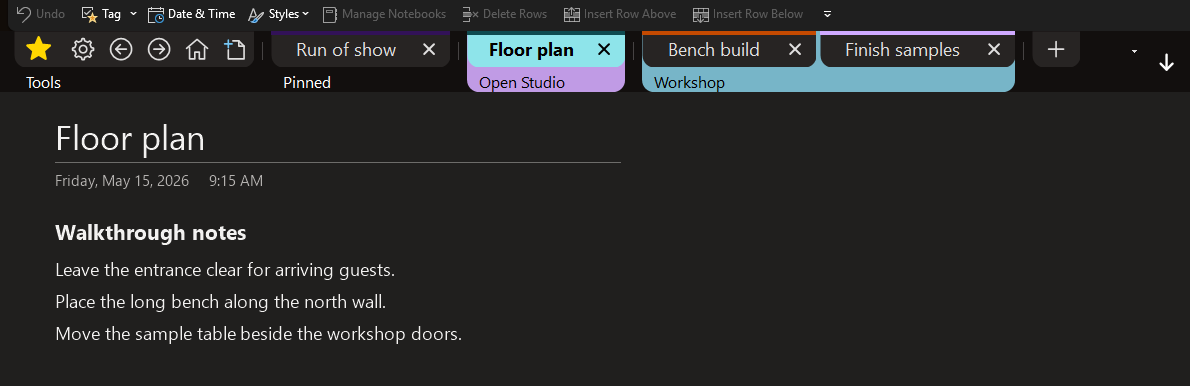
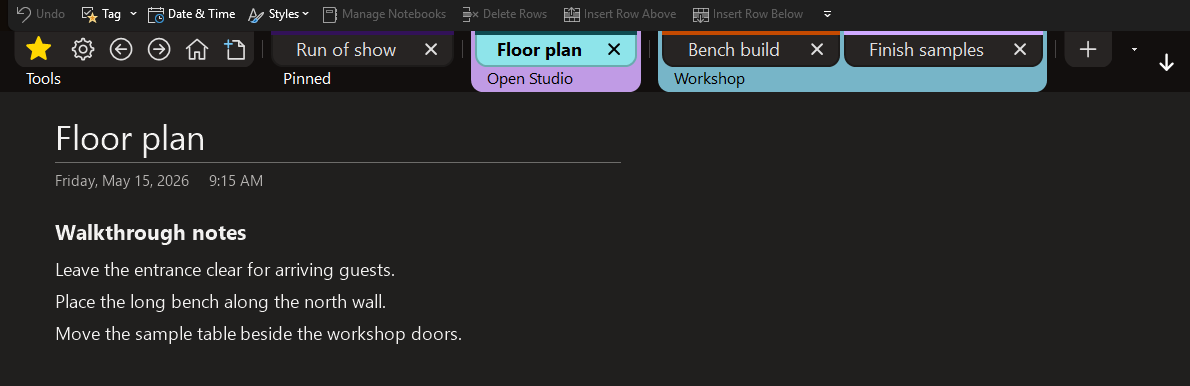
Center MoreTabs group labels and separate page tabs from their notebook bands

Changed region(s): [[0.342, 0.0622, 0.9328, 0.2487], [0.2176, 0.1865, 0.2798, 0.2487], [0.0, 0.1865, 0.0622, 0.2487]]

diff --git a/addins/page-tabs/prototype/AppearanceTests.cs b/addins/page-tabs/prototype/AppearanceTests.cs
@@ -131,7 +131,8 @@ internal static class AppearanceTests
                     for (int y = cy - HostChrome.Px(5, tab.Dpi); y <= cy + HostChrome.Px(5, tab.Dpi); y++)
                         for (int dx = HostChrome.Px(6, tab.Dpi); dx <= HostChrome.Px(12, tab.Dpi); dx++)
                             Check(image.GetPixel(cx - dx, y).ToArgb() == fill && image.GetPixel(cx + dx, y).ToArgb() == fill,
-                                "The long title or tab edge crowds the close icon at " + tab.Dpi + " DPI.");
+                                String.Format("Close spacing at {0} DPI, bottom={1}, tab {2}, dx {3}, y {4}: {5:X8}/{6:X8}, expected {7:X8}.",
+                                    tab.Dpi, strip.AtBottom, tab.Bounds, dx, y, image.GetPixel(cx-dx,y).ToArgb(), image.GetPixel(cx+dx,y).ToArgb(), fill));
                 }
             }
         }
@@ -166,9 +167,11 @@ internal static class AppearanceTests
         {
             strip.DrawToBitmap(image, strip.ClientRectangle);
             var firstTab = grouped[0];
-            Check(firstTab.Group == grouped[1].Group && grouped[1].Bounds.Left > firstTab.Bounds.Right &&
+            int gap = grouped[1].Bounds.Left - firstTab.Bounds.Right;
+            Check(firstTab.Group == grouped[1].Group && gap > 0 &&
+                firstTab.Bounds.Left - firstTab.Group.Left == gap && firstTab.Group.Right - grouped[1].Bounds.Right == gap &&
                 image.GetPixel(firstTab.Bounds.Right, strip.Height / 2).ToArgb() == firstTab.Group.Notebook.Color.ToArgb(),
-                "The notebook backing did not bridge the gap between two tabs in the same group.");
+                "The colored band must leave exactly one inter-tab gap at each end of a two-tab group.");
         }
         TogglePin(strip, grouped[2], true);
         int fullDocument = layout.DocumentBounds.Height;
@@ -429,10 +432,14 @@ internal static class AppearanceTests
                 {
                     var label = group.Key;
                     var box = label.Bounds;
-                    Check(label.Visible && !label.CanSelect && label.AccessibleName == label.Text && label.Font.Style == FontStyle.Regular &&
-                        label.Font.Size < first.Font.Size && box.Left == group.First().Bounds.Left && label.Padding.Left == TabRenderer.CornerRadius(chrome.Dpi) && box.Right == group.Last().Bounds.Right &&
-                        box.Height == label.Font.Height, "A notebook caption did not fit its tabs on one compact line.");
                     bool colored = !chrome.HighContrast && label.Notebook != null && !label.Notebook.Color.IsEmpty;
+                    int pad = colored ? 2 * edge : 0;
+                    Check(label.Visible && !label.CanSelect && label.AccessibleName == label.Text && label.Font.Style == FontStyle.Regular &&
+                        label.Font.Size < first.Font.Size && box.Left + pad == group.First().Bounds.Left &&
+                        label.Padding.Left == pad + TabRenderer.CornerRadius(chrome.Dpi) && box.Right - pad == group.Last().Bounds.Right &&
+                        box.Height == label.Font.Height + HostChrome.Px(3, chrome.Dpi) &&
+                        (bottom ? group.First().Bounds.Top == 0 : group.First().Bounds.Bottom == strip.Height),
+                        "The caption must center in the full space between the tab and band edges, with equal end padding.");
                     Color fill = colored ? label.Notebook.Color : palette.Surface;
                     Color ink = colored ? palette.NotebookInk(fill) : palette.Ink;
                     int outer = bottom ? box.Top : box.Bottom - 1, seam = bottom ? box.Bottom - 1 : box.Top;
@@ -446,11 +453,26 @@ internal static class AppearanceTests
                             label.Text, chrome.Dpi, bottom, captions.GetPixel(box.Left, outer).ToArgb(), captions.GetPixel(box.Right - 1, outer).ToArgb(),
                             captions.GetPixel(box.Right - 1, seam).ToArgb(), captions.GetPixel(inside.X, inside.Y).ToArgb(),
                             bitmap.GetPixel(box.Right - 1, bottom ? 0 : strip.Height - 1).ToArgb(), palette.Surface.ToArgb(), fill.ToArgb()));
-                    bool found = false;
-                    for (int x = box.Left + label.Padding.Left; x < box.Right - label.Padding.Right && !found; x++)
-                        for (int y = box.Top; y < box.Bottom && !found; y++)
-                            found = captions.GetPixel(x, y).ToArgb() == ink.ToArgb();
-                    Check(found, "The notebook caption did not render in its contrasting text color.");
+                    if (colored)
+                        for (int i = 0; i < pad; i++)
+                            Check(bitmap.GetPixel(box.Left + i, strip.Height / 2).ToArgb() == fill.ToArgb() &&
+                                bitmap.GetPixel(box.Right - 1 - i, strip.Height / 2).ToArgb() == fill.ToArgb(),
+                                "The notebook fill must be visible at both ends of its tab row.");
+                    int firstInk = box.Bottom, lastInk = -1;
+                    bool solidInk = false;
+                    int inkDistance = Math.Abs(ink.R-fill.R) + Math.Abs(ink.G-fill.G) + Math.Abs(ink.B-fill.B);
+                    for (int x = box.Left + label.Padding.Left; x < box.Right - label.Padding.Right; x++)
+                        for (int y = box.Top; y < box.Bottom; y++)
+                        {
+                            Color pixel = captions.GetPixel(x, y);
+                            if (pixel.ToArgb() == ink.ToArgb()) solidInk = true;
+                            int distance = Math.Abs(pixel.R-fill.R) + Math.Abs(pixel.G-fill.G) + Math.Abs(pixel.B-fill.B);
+                            if (distance < inkDistance / 3) continue;
+                            firstInk = Math.Min(firstInk, y);
+                            lastInk = Math.Max(lastInk, y);
+                        }
+                    Check(solidInk && Math.Abs((firstInk - box.Top) - (box.Bottom - 1 - lastInk)) <= HostChrome.Px(3, chrome.Dpi),
+                        "Caption ink falls off center for " + label.Text + " at " + chrome.Dpi + " DPI: " + firstInk + ".." + lastInk + " in " + box.Height + " pixels.");
                 }
             }
             Color starBackground = star.Pressed ? palette.Active : star.Selected ? palette.Hover : palette.Tab;
@@ -486,7 +508,10 @@ internal static class AppearanceTests
                 int y = divider.Bounds.Top + divider.Height / 2;
                 if (left.Placement == ToolStripItemPlacement.Main && right.Placement == ToolStripItemPlacement.Main)
                 {
-                    int leftGap = x - left.Bounds.Right, rightGap = right.Bounds.Left - x - 1;
+                    var leftTab = left as PageTabButton;
+                    var rightTab = right as PageTabButton;
+                    int leftGap = x - (leftTab == null ? left.Bounds.Right : leftTab.Group.Right);
+                    int rightGap = (rightTab == null ? right.Bounds.Left : rightTab.Group.Left) - x - 1;
                     Check(leftGap > 0 && leftGap == rightGap, "Divider gaps in pixels: left " + leftGap + ", right " + rightGap);
                     for (int gap = 1; gap <= leftGap; gap++)
                         Check(bitmap.GetPixel(x - gap, y).ToArgb() == palette.Surface.ToArgb() &&
@@ -504,6 +529,15 @@ internal static class AppearanceTests
                         Check(bitmap.GetPixel(x, FlatEdgeY(tab, bottom, y)).ToArgb() == marker.ToArgb(),
                             "Missing full-width section color on " + (tab.Checked ? "active" : "inactive") + " tab.");
                 Color fill = tab.Checked ? palette.MutedSection(tab.SectionColor) : tab.Selected ? palette.Hover : palette.Tab;
+                if (!chrome.HighContrast)
+                {
+                    int midY = tab.Bounds.Top + tab.Height / 2;
+                    Color border = bitmap.GetPixel(tab.Bounds.Left, midY);
+                    Check(border.GetBrightness() < fill.GetBrightness() &&
+                        bitmap.GetPixel(tab.Bounds.Right - 1, midY).ToArgb() == border.ToArgb() &&
+                        bitmap.GetPixel(tab.Bounds.Left + tab.Width / 2, FlatEdgeY(tab, !bottom, 0)).ToArgb() == border.ToArgb(),
+                        "Each page tab needs a darker outline on both sides and along its rounded edge.");
+                }
                 var close = tab.CloseBounds;
                 int cx = tab.Bounds.Left + close.Left + (close.Width - 1) / 2, cy = tab.Bounds.Top + (close.Height - 1) / 2;
                 int arm = HostChrome.Px(2, chrome.Dpi);

diff --git a/addins/page-tabs/prototype/PageStrip.cs b/addins/page-tabs/prototype/PageStrip.cs
@@ -551,7 +551,7 @@ internal sealed class PageStrip : ToolStrip
         {
             var margin = TabMargin(appearance.Dpi);
             SetMenuTabMargins(margin);
-            foreach (var tab in buttons.Values) tab.Margin = margin;
+            PerformLayout();
             Invalidate();
         }
     }
@@ -619,7 +619,7 @@ internal sealed class PageStrip : ToolStrip
     private Padding TabMargin(uint dpi)
     {
         int side = HostChrome.Px(1, dpi);
-        int gap = HostChrome.Px(3, dpi);
+        int gap = WantsCaptionRow ? 0 : HostChrome.Px(3, dpi);
         return new Padding(side, AtBottom ? gap : 0, side, AtBottom ? 0 : gap);
     }
     private void SetMenuTabMargins(Padding margin)
@@ -653,6 +653,7 @@ internal sealed class PageStrip : ToolStrip
         if (label.GroupFill != fill)
         {
             label.GroupFill = fill;
+            PerformLayout();
             label.Invalidate();
             Invalidate();
         }
@@ -934,6 +935,7 @@ internal sealed class PageStrip : ToolStrip
     }
     private void UpdateTabItems()
     {
+        SetMenuTabMargins(TabMargin(appearance.Dpi));
         foreach (var id in buttons.Keys.Where(id => !state.Tabs.Any(t => t.Key == id)).ToArray())
         {
             if (id == activeKey) activeKey = null;
@@ -1049,8 +1051,7 @@ internal sealed class PageStrip : ToolStrip
     private void AlignNotebookCaptions()
     {
         var tools = MenuTabBounds;
-        int inset = TabRenderer.CornerRadius(appearance.Dpi);
-        toolsLabel.Align(tools.Left, tools.Right, Host.Captions.Height, inset);
+        toolsLabel.Align(tools.Left, tools.Right, Host.Captions.Height, appearance.Dpi);
         // Use the final main-row item bounds. Overflow pages and notebook names consume no caption width.
         var visible = Items.OfType<PageTabButton>().Where(t => t.Placement == ToolStripItemPlacement.Main).ToLookup(t => t.Group);
         foreach (var label in labels.Values)
@@ -1058,15 +1059,17 @@ internal sealed class PageStrip : ToolStrip
             var tabs = visible[label];
             var first = tabs.FirstOrDefault();
             if (first == null || !WantsCaptionRow) { label.Hide(); continue; }
-            label.Align(first.Bounds.Left, tabs.Last().Bounds.Right, Host.Captions.Height, inset);
+            label.Align(first.Bounds.Left, tabs.Last().Bounds.Right, Host.Captions.Height, appearance.Dpi, GroupEndPadding(label));
             label.Show();
         }
     }
     private static int ItemWidth(ToolStripItem item)
     {
-        var tab = item as PageTabButton;
-        if (tab != null) return tab.StripSize(Size.Empty).Width + tab.Margin.Horizontal;
         return (item.AutoSize ? item.GetPreferredSize(Size.Empty).Width : item.Width) + item.Margin.Horizontal;
+    }
+    private int GroupEndPadding(NotebookTabLabel label)
+    {
+        return WantsCaptionRow && !label.GroupFill.IsEmpty ? TabMargin(appearance.Dpi).Horizontal : 0;
     }
     private void FitNotebookGroups()
     {
@@ -1079,29 +1082,47 @@ internal sealed class PageStrip : ToolStrip
         int space = DisplayRectangle.Width - ItemWidth(options) - ItemWidth(bookmarkDivider) - ItemWidth(add);
         if (bookmarks.Available) space -= ItemWidth(bookmarks);
         int dividerWidth = bookmarkDivider.Width;
+        var margin = TabMargin(appearance.Dpi);
+        var groups = tabs.ToLookup(t => t.Group);
+        var groupWidths = groups.ToDictionary(g => g.Key, g => dividerWidth + 2 * GroupEndPadding(g.Key));
         var tools = toolGroup.OfType<ToolButton>().Where(t => t.Available).ToArray();
         int toolsWidth = tools.Sum(tool => ItemWidth(tool));
         int overflowWidth = Math.Max(OverflowButton.Width, HostChrome.Px(16, appearance.Dpi));
-        bool collapseTools = tools.Length > 0 && space - toolsWidth < overflowWidth + (tabs.Count == 0 ? 0 : HostChrome.Px(70, appearance.Dpi) + dividerWidth);
+        bool collapseTools = tools.Length > 0 && space - toolsWidth < overflowWidth +
+            (tabs.Count == 0 ? 0 : HostChrome.Px(70, appearance.Dpi) + margin.Horizontal + groupWidths.Values.Max());
         foreach (var tool in tools) tool.Overflow = collapseTools ? ToolStripItemOverflow.Always : ToolStripItemOverflow.Never;
         if (!collapseTools) space -= toolsWidth;
-        if (collapseTools || tabs.Sum(tab => ItemWidth(tab)) + labels.Count * dividerWidth + ItemWidth(stop) > space) space -= overflowWidth;
+        if (collapseTools || tabs.Sum(t => t.StripSize(Size.Empty).Width + margin.Horizontal) + groupWidths.Values.Sum() + ItemWidth(stop) > space) space -= overflowWidth;
         PageTabButton active;
-        if (activeKey != null && buttons.TryGetValue(activeKey, out active) && active.Group != null)
+        int activeGroupWidth;
+        if (activeKey != null && buttons.TryGetValue(activeKey, out active) && active.Group != null &&
+            groupWidths.TryGetValue(active.Group, out activeGroupWidth))
         {
-            int content = space - active.Margin.Horizontal - dividerWidth;
+            int content = space - margin.Horizontal - activeGroupWidth;
             if (content >= HostChrome.Px(48, appearance.Dpi)) active.WidthLimit = content;
         }
         // Reserve the selected page first, then fit other pages in the order they appear on the strip.
         foreach (var tab in tabs.OrderByDescending(t => ((SavedTab)t.Tag).Key == activeKey))
         {
-            int cost = ItemWidth(tab) + (visibleGroups.Contains(tab.Group) ? 0 : dividerWidth);
+            int cost = tab.StripSize(Size.Empty).Width + margin.Horizontal +
+                (visibleGroups.Contains(tab.Group) ? 0 : groupWidths[tab.Group]);
             if (cost > space) continue;
             visible.Add(tab);
             visibleGroups.Add(tab.Group);
             space -= cost;
         }
-        foreach (var tab in tabs) tab.Overflow = visible.Contains(tab) ? ToolStripItemOverflow.Never : ToolStripItemOverflow.Always;
+        foreach (var group in groups)
+        {
+            var first = group.FirstOrDefault(t => visible.Contains(t));
+            var last = group.LastOrDefault(t => visible.Contains(t));
+            int pad = GroupEndPadding(group.Key);
+            foreach (var tab in group)
+            {
+                tab.Margin = new Padding(margin.Left + (tab == first ? pad : 0), margin.Top,
+                    margin.Right + (tab == last ? pad : 0), margin.Bottom);
+                tab.Overflow = visible.Contains(tab) ? ToolStripItemOverflow.Never : ToolStripItemOverflow.Always;
+            }
+        }
         foreach (var label in labels.Values) label.Divider.Available = visibleGroups.Contains(label);
         stop.Overflow = space >= ItemWidth(stop) ? ToolStripItemOverflow.Never : ToolStripItemOverflow.Always;
     }

diff --git a/addins/page-tabs/prototype/TabRenderer.cs b/addins/page-tabs/prototype/TabRenderer.cs
@@ -59,7 +59,7 @@ internal sealed class PageTabButton : ToolStripButton
     internal Color SectionColor { get; set; }
     internal DateTime NextColorCheck { get; set; }
     internal uint Dpi = 96;
-    internal int CloseWidth { get { return HostChrome.Px(28, Dpi); } }
+    internal int CloseWidth { get { return HostChrome.Px(28, Dpi) + 2 * HostChrome.Px(1, Dpi); } }
     internal Rectangle CloseBounds { get { return Rectangle.FromLTRB(Math.Max(0, Width - CloseWidth), 0, Width, Height); } }
     internal bool CloseHovered { get; private set; }
     protected override void OnMouseMove(MouseEventArgs e)
@@ -104,6 +104,7 @@ internal sealed class NotebookTabLabel : Label
     internal BookmarkNotebook Notebook;
     internal ToolStripSeparator Divider;
     internal Color GroupFill { get; set; }
+    private int cornerRadius;
     private const TextFormatFlags Flags = TextFormatFlags.SingleLine | TextFormatFlags.NoPrefix | TextFormatFlags.NoPadding;
     internal NotebookTabLabel()
     {
@@ -117,7 +118,7 @@ internal sealed class NotebookTabLabel : Label
         if (!GroupFill.IsEmpty)
         {
             var saved = e.Graphics.Save();
-            using (var shape = TabRenderer.TabOutline(Width, Height, Padding.Left, Parent.Dock == DockStyle.Top))
+            using (var shape = TabRenderer.TabOutline(Width, Height, cornerRadius, Parent.Dock == DockStyle.Top))
             using (var brush = new SolidBrush(GroupFill))
             {
                 e.Graphics.SmoothingMode = SmoothingMode.AntiAlias;
@@ -126,15 +127,18 @@ internal sealed class NotebookTabLabel : Label
             }
             e.Graphics.Restore(saved);
         }
-        var title = new Rectangle(Padding.Left, 0, Math.Max(0, Width - Padding.Horizontal), Height);
+        var title = new Rectangle(Padding.Left, 0, Math.Max(0, Width - Padding.Horizontal), Height - Padding.Vertical);
         TextRenderer.DrawText(e.Graphics, Text, Font, title, ForeColor,
             Flags | TextFormatFlags.VerticalCenter | TextFormatFlags.EndEllipsis);
     }
 
-    internal void Align(int left, int right, int height, int inset)
+    internal void Align(int left, int right, int height, uint dpi, int endPadding = 0)
     {
-        Padding = new Padding(inset, 0, GroupFill.IsEmpty ? 0 : inset, 0);
-        Bounds = Rectangle.FromLTRB(left, 0, right, height);
+        cornerRadius = TabRenderer.CornerRadius(dpi);
+        int inset = cornerRadius + endPadding;
+        // The menu font leaves more space above its visible glyphs than below them.
+        Padding = new Padding(inset, 0, GroupFill.IsEmpty ? 0 : inset, 2 * HostChrome.Px(1, dpi));
+        Bounds = Rectangle.FromLTRB(left - endPadding, 0, right + endPadding, height);
     }
 }
 
@@ -356,7 +360,19 @@ internal sealed class TabRenderer : ToolStripProfessionalRenderer
             using (var fill = new SolidBrush(Background(e.Item)))
             {
                 if (shape.PointCount == 0) return;
-                e.Graphics.FillPath(fill, shape);
+                if (page != null && !contrast)
+                {
+                    int edge = HostChrome.Px(1, Dpi);
+                    e.Graphics.PixelOffsetMode = PixelOffsetMode.Half;
+                    using (var border = new SolidBrush(Blend(fill.Color, Color.Black, 25)))
+                        e.Graphics.FillPath(border, shape);
+                    var saved = e.Graphics.Save();
+                    e.Graphics.TranslateTransform(edge, bottom ? edge : 0);
+                    using (var body = TabOutline(w - 2 * edge, h - edge, CornerRadius(Dpi) - edge, bottom))
+                        e.Graphics.FillPath(fill, body);
+                    e.Graphics.Restore(saved);
+                }
+                else e.Graphics.FillPath(fill, shape);
                 if (contrast)
                     using (var border = new Pen(Ink) { Alignment = PenAlignment.Inset }) e.Graphics.DrawPath(border, shape);
                 if (page != null)

diff --git a/addins/page-tabs/prototype/PrototypeTests.cs b/addins/page-tabs/prototype/PrototypeTests.cs
@@ -42,7 +42,7 @@ internal static class PrototypeTests
             return parentId == "" ? tree.Elements().Concat(ExtraNotebooks) : tree.Descendants().Single(x => (string)x.Attribute("ID") == parentId).Elements();
         }
         internal Color BookBColor = Color.FromArgb(246,176,120);
-        internal BookmarkNotebook BookB = new BookmarkNotebook("b", "Workshop", Color.Goldenrod);
+        internal BookmarkNotebook BookB = new BookmarkNotebook("b", "Workshop", Color.FromArgb(232, 209, 153));
         public Color SectionColor(string id) { return id.StartsWith("a/") ? Color.FromArgb(145,186,174) : BookBColor; }
         public Dictionary<string, BookmarkLocation> PageLocations(IEnumerable<string> ids, bool refresh = false)
         {
@@ -166,7 +166,7 @@ internal static class PrototypeTests
                             renamed[0].Notebook.Id != renamed[1].Notebook.Id && renamed[1].Notebook.Color == Color.Orchid,
                             "Renaming or recoloring a notebook merged distinct notebooks with the same name.");
                         var beforeRename = strip.Items.OfType<PageTabButton>().Select(t => t.Bounds).ToArray();
-                        source.BookB = new BookmarkNotebook("b", "Workshop projects and reference material", Color.Goldenrod);
+                        source.BookB = new BookmarkNotebook("b", "Workshop projects and reference material", previousBook.Color);
                         foreach (var tab in strip.Items.OfType<PageTabButton>()) tab.NextColorCheck = DateTime.MinValue;
                         strip.RefreshActive();
                         var singlePageCaption = renamed[1];
@@ -784,6 +784,12 @@ internal static class PrototypeTests
             AppearanceTests.CheckGroupDividers(strip, headers.Length);
             Check(visible.Any(t => t.Checked) && visible.All(t => headers.Contains(t.Group) && t.Group.Left <= t.Bounds.Left + TabRenderer.CornerRadius(t.Dpi) && t.Group.Right >= t.Bounds.Right) &&
                 headers.All(h => visible.Any(t => t.Group == h)), "Overflow separated the active page from its notebook label.");
+            foreach (var group in visible.GroupBy(t => t.Group))
+            {
+                int pad = group.Key.GroupFill.IsEmpty ? 0 : 2 * HostChrome.Px(1, layout.Dpi);
+                Check(group.First().Bounds.Left - group.Key.Left == pad && group.Key.Right - group.Last().Bounds.Right == pad,
+                    "A partially visible group must keep its padding around the tabs still on the strip.");
+            }
             frame.ClientSize = new Size(frame.ClientSize.Width + 32, frame.ClientSize.Height + 48);
             full = Rectangle.FromLTRB(0, layout.RibbonBounds.Bottom, frame.ClientSize.Width, frame.ClientSize.Height);
             document.Bounds = full;

diff --git a/addins/page-tabs/prototype/StripHost.cs b/addins/page-tabs/prototype/StripHost.cs
@@ -46,7 +46,8 @@ internal sealed class StripHost : Panel
     {
         BackColor = MoveButton.BackColor = palette.Surface;
         Captions.BackColor = palette.Surface;
-        Captions.Height = HostChrome.CaptionHeight(palette.Dpi);
+        // Center the names in all of the space between the tab edge and the edge of the band.
+        Captions.Height = HostChrome.CaptionHeight(palette.Dpi) + HostChrome.Px(3, palette.Dpi);
         MoveButton.ForeColor = palette.Ink;
         MoveButton.FlatAppearance.MouseOverBackColor = palette.Hover;
         MoveButton.FlatAppearance.MouseDownBackColor = palette.Active;

diff --git a/addins/page-tabs/README.md b/addins/page-tabs/README.md
@@ -63,7 +63,7 @@ All three grouping and label options start enabled. Changes apply immediately. M
 | **Show notebook labels** | Tabs stay grouped. All captions, including **Pinned**, disappear and OneNote gets the whole row back. The label color option is grayed out. |
 | **Use notebook colors for labels** | The notebook bands disappear and the labels use the theme's regular text color. Windows high contrast uses the system background and text colors. |
 
-With grouping on, the notebook color spans the caption and the space behind its visible tabs. Black or white caption text is chosen for contrast. The band is rounded along the edge facing the page, below the tabs when docked at the top and above them when docked at the bottom. The name starts one corner radius in from the first visible tab. Hover over a clipped caption to read its full name. Tools and Pinned use the theme background.
+With grouping on, the notebook color spans the caption and the space behind its visible tabs. Each end of the colored band has the same padding as the gap between two tabs. A thin, darker outline separates each page tab from the band. The notebook name is vertically centered in the caption, with black or white text chosen for contrast. The band is rounded along the edge facing the page, below the tabs when docked at the top and above them when docked at the bottom. The name starts one corner radius in from the first visible tab. Hover over a clipped caption to read its full name. Tools and Pinned use the theme background.
 
 Groups appear in order of their first open tab. Tabs within a group keep their saved order. Notebook IDs distinguish notebooks with the same name.
 
